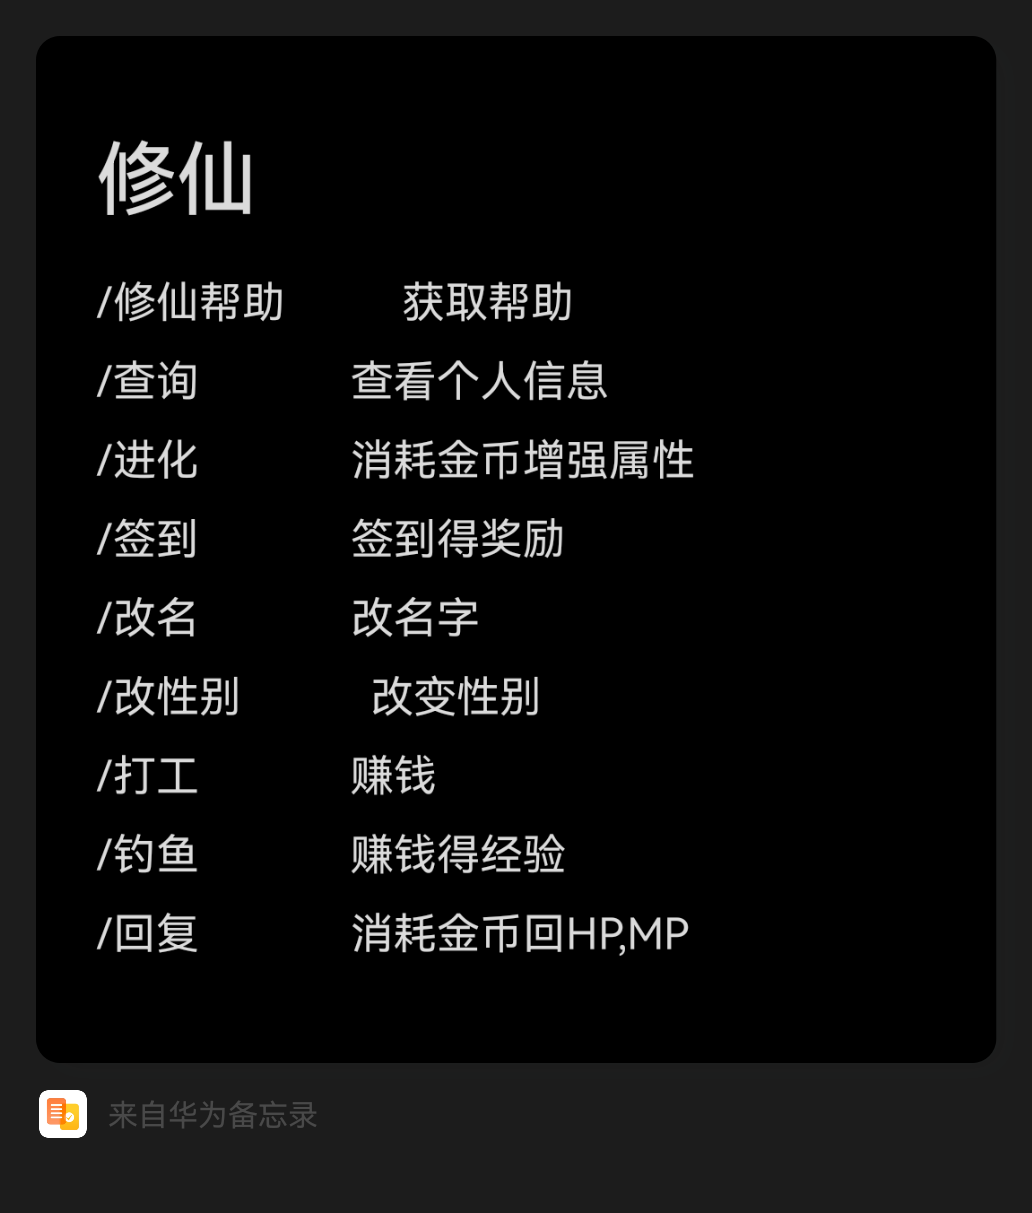
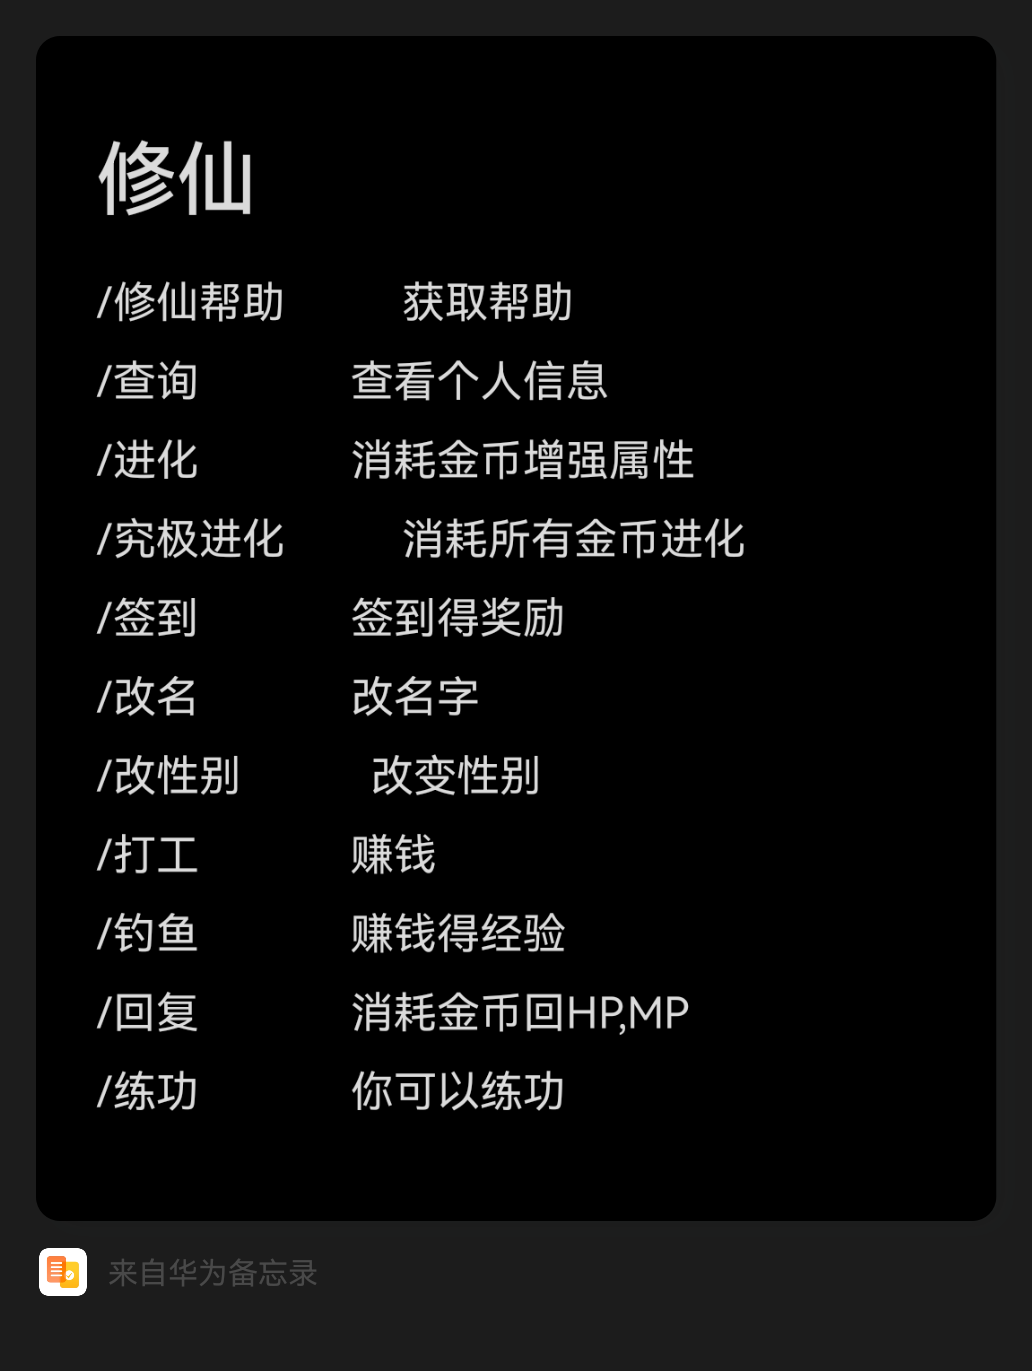
src

diff --git a/bot2/plugins/xiuxian/Role.py b/bot2/plugins/xiuxian/Role.py
@@ -10,6 +10,7 @@
 import random
 import sqlite3
 import time
+from nonebot.adapters.onebot.v11.message import Message
 
 class XianRole:
     def __init__(self,uid:int,name:str='无名氏',sex:str='男'):
@@ -57,11 +58,13 @@ class XianRole:
             return '你的蓝量不足，不能攻击'
         if self.HP<=0:
             self.gold-=15
-            return f'你的血量为0,你掉了一些15金子'
+            return f'你的血量为0,你掉了一些15灵石'
+        self.MP-=2
+        u1.MP-=2
         if u1.HP<=0:
             u1.gold-=25
             self.gold+=25
-            return '你要攻击的人的血量为0,你捡起来了他的25金子'
+            return '你要攻击的人的血量为0,你捡起来了他的25灵石'
         if self.speed>=u1.speed:
             #先攻击
             at1=self.attack-u1.defense
@@ -75,10 +78,10 @@ class XianRole:
                     return f'回合结束！你掉了{at2}血，他掉了{at1}血'
                 self.gold-=25
                 u1.gold+=25
-                return '你死了，他捡起了你的25金'
+                return '你死了，他捡起了你的25灵石'
             u1.gold-=25
             self.gold+=25
-            return '他死了，你捡起了他的25金'
+            return '他死了，你捡起了他的25灵石'
         else:
             #后攻击
             at1=u1.attack-self.defense
@@ -92,15 +95,45 @@ class XianRole:
                     return f'回合结束！你掉了{at1}血，他掉了{at2}血'
                 self.gold+=25
                 u1.gold-=25
-                return '他死了，你捡起了他的25金'
+                return '他死了，你捡起了他的25灵石'
             u1.gold+=25
             self.gold-=25
-            return '你死了，他捡起了你的25金'
+            return '你死了，他捡起了你的25灵石'
 
+    def honor(self)->str:
+        level=self.level
+        n0=level//10
+        n1=level%10
+        honor=''
+        if n0<1:
+            honor+='练气期'
+        elif n0<2:
+            honor+='筑基期'
+        elif n0<3:
+            honor+='结丹期'
+        elif n0<4:
+            honor+='金丹期'
+        elif n0<5:
+            honor+='元婴期'
+        elif n0<6:
+            honor += '出窍期'
+        elif n0<7:
+            honor+='化神期'
+        elif n0<8:
+            honor+='渡劫期'
+        elif n0<9:
+            honor+='真仙'
+        honor+=f'{num_to_char(n1)}阶'
+        return honor
 
     def getInfo(self):
         self.upSql()
-        return f'姓名:{self.name}\n性别:{self.sex}\n血量:{self.HP}\n蓝量:{self.MP}\n攻击:{self.attack}\n防御:{self.defense}\n速度:{self.speed}\n等级:{self.level}\n经验:{self.experience}\n金币:{self.gold}\n修仙年份:{int((time.time()-self.stime)/86400)}天'
+        return f'姓名:{self.name}\n境界:{self.honor()}\n性别:{self.sex}\n血量:{self.HP}\n蓝量:{self.MP}\n攻击:{self.attack}\n防御:{self.defense}\n速度:{self.speed}\n灵气:{self.experience}/{self.level*100}\n灵石:{self.gold}\n修仙年份:{int((time.time()-self.stime)/86400)}天'
+
+    def dazuo(self)->int:
+        exp=random.randint(-20,40)
+        self.experience+=exp
+        return exp
 
     def incSign(self)->bool:
         if self.signStatus==0:
@@ -117,8 +150,11 @@ class XianRole:
         return g
 
     def fishing(self)->(int,int):
-        g=random.randint(5,20)
-        e=random.randint(5,10)
+        if self.gold<2:
+            return (0,0)
+        self.gold-=2
+        g=random.randint(1,20)
+        e=random.randint(1,10)
         self.gold+=g
         self.experience+=e
         self.upLevel()
@@ -178,3 +214,8 @@ class XianRole:
         self.upLevel()
         #更新数据
         self.upSql()
+
+def num_to_char(num:int):
+    num_dict = {"0": u"零", "1": u"一", "2": u"二", "3": u"三", "4": u"四", "5": u"五", "6": u"六", "7": u"七", "8": u"八",
+                "9": u"九"}
+    return num_dict[str(num)]

diff --git a/bot2/plugins/xiuxian/morege.py b/bot2/plugins/xiuxian/morege.py
@@ -7,6 +7,8 @@
 @file: morege.py
 @Github: https://github.com/0xchang
 """
+import random
+
 from nonebot import on_command
 from nonebot.adapters.onebot.v11 import GroupMessageEvent
 from bot2.plugins.xiuxian.Role import XianRole
@@ -19,20 +21,29 @@ async def infoxian_handle(event: GroupMessageEvent):
     u = XianRole(uid, event.sender.nickname)
     res=u.work()
     if res<=20:
-        mess=f'你打工不认真，仅仅得了{res}金币'
+        mess=f'你打工不认真，仅仅得了{res}灵石'
     elif res>=40:
-        mess=f'你打工很认真，得了{res}金币'
+        mess=f'你打工很认真，得了{res}灵石'
     else:
-        mess=f'你打工一般，得了{res}金币'
+        mess=f'你打工一般，得了{res}灵石'
     del u
     await workxian.finish(Message(mess))
 
+goods=['秋刀鱼','比目鱼','三文鱼','多宝鱼','石斑鱼','黑头鱼','马鲛','金目鲷','金枪鱼','军曹鱼']
+bads=['破烂的鞋子','枯枝','烂木头','衣服','拖鞋','蛇']
 fishxian = on_command('钓鱼', priority=235)
 @fishxian.handle()
 async def infoxian_handle(event: GroupMessageEvent):
+    global goods
+    global bads
     uid = event.get_user_id()
     u = XianRole(uid, event.sender.nickname)
     gold,exp=u.fishing()
     del u
-    mess=f'你钓鱼得到了金币+{gold}，经验+{exp}'
+    if gold+exp==0:
+        mess='你没钱买鱼饵了,快去打工吧！'
+    elif gold+exp>10:
+        mess=f'你钓鱼得到了{random.choice(goods)},灵石+{gold}，灵气+{exp}'
+    else:
+        mess=f'你钓鱼得到了{random.choice(bads)},灵石+{gold}，灵气+{exp}'
     await fishxian.finish(Message(mess))

diff --git a/bot2/plugins/xiuxian/helpxiuxian.py b/bot2/plugins/xiuxian/helpxiuxian.py
@@ -9,23 +9,23 @@
 """
 import os
 from nonebot import on_command
-from nonebot.adapters.onebot.v11 import GroupMessageEvent
 from nonebot.adapters.onebot.v11.message import Message
 
-
-helpxian = on_command('修仙帮助', priority=239)
-@helpxian.handle()
-async def infoxian_handle(event: GroupMessageEvent):
-    help='''
+helpxiuxian='''
 /修仙帮助          获取帮助
 /查询             查看个人信息
 /进化             消耗金币增强属性
+/究极进化          消耗所有金币进化
 /签到             签到得奖励
 /改名             改名字
 /改性别           改变性别
 /打工             赚钱
 /钓鱼             赚钱得经验
 /回复             消耗金币回HP,MP
+/练功             你可以练功
 '''
+helpxian = on_command('修仙帮助', priority=239)
+@helpxian.handle()
+async def infoxian_handle():
     pwd=os.getcwd()
     await helpxian.finish(Message(f'[CQ:image,file=file:///{pwd}/img/helpxiuxian.png]'))

diff --git a/bot2/plugins/help/helpmenu.py b/bot2/plugins/help/helpmenu.py
@@ -10,13 +10,9 @@
 import os
 
 from nonebot.adapters.onebot.v11.message import Message
-from nonebot.adapters.onebot.v11 import Event
 from nonebot import on_command
 
-helpmenu=on_command('帮助',priority=150)
-@helpmenu.handle()
-async def helpmenu_handle(event:Event):
-    help_detail='''
+help_detail='''
 /帮助                   获取帮助信息
 /关注uid              关注主播
 /取关uid              取关主播
@@ -49,6 +45,10 @@ async def helpmenu_handle(event:Event):
 /换老婆             换一个老婆给你
 /偷老婆atxx         你可以偷xx的老婆
 /置顶                查看up动态置顶信息
-/抽歌手             抽一个歌手'''
+/抽歌手             抽一个歌手
+'''
+helpmenu=on_command('帮助',priority=150)
+@helpmenu.handle()
+async def helpmenu_handle():
     pwd=os.getcwd()
     await helpmenu.finish(Message(f'[CQ:image,file=file:///{pwd}/img/helpbot.png]'))

diff --git a/bot2/plugins/xiuxian/upExp.py b/bot2/plugins/xiuxian/upExp.py
@@ -1,0 +1,26 @@
+#!/bin/env python
+# -*- coding: utf-8 -*-
+"""
+@time: 2022/11/1 20:27
+@author: 0xchang
+@E-mail: oxchang@163.com
+@file: upExp.py
+@Github: https://github.com/0xchang
+"""
+from nonebot import on_command
+from nonebot.adapters.onebot.v11 import GroupMessageEvent
+from bot2.plugins.xiuxian.Role import XianRole
+from nonebot.adapters.onebot.v11.message import Message
+
+upexpxian = on_command('练功', priority=241)
+@upexpxian.handle()
+async def infoxian_handle(event: GroupMessageEvent):
+    uid = event.get_user_id()
+    u = XianRole(uid)
+    exp=u.dazuo()
+    if exp<0:
+        mess=f'你在练功的时候走火入魔了，经验{exp}'
+    else:
+        mess=f'你练功状态还行，经验+{exp}'
+    del u
+    await upexpxian.finish(Message(mess))

diff --git a/bot2/plugins/xiuxian/upField.py b/bot2/plugins/xiuxian/upField.py
@@ -23,3 +23,14 @@ async def infoxian_handle(event: GroupMessageEvent):
         mess='您的金币不足'
     del u
     await upxian.finish(Message(mess))
+
+jiujiupxian = on_command('究极进化', priority=239)
+@jiujiupxian.handle()
+async def jiujiupxian_handle(event: GroupMessageEvent):
+    uid = event.get_user_id()
+    u = XianRole(uid, event.sender.nickname)
+    count=0
+    while u.goldToField():
+        count+=1
+    mess=f'恭喜你消耗大量金币进化{count}次，各项属性大量增加！'
+    await jiujiupxian.finish(Message(mess))

diff --git a/bot2/plugins/xiuxian/AT.py b/bot2/plugins/xiuxian/AT.py
@@ -9,7 +9,7 @@
 """
 from nonebot import on_command
 from nonebot.adapters.onebot.v11 import GroupMessageEvent
-from bot2.plugins.xiuxian.Role import XianRole
+from bot2.plugins.xiuxian import Role
 from nonebot.adapters.onebot.v11.message import Message
 from nonebot.params import CommandArg
 
